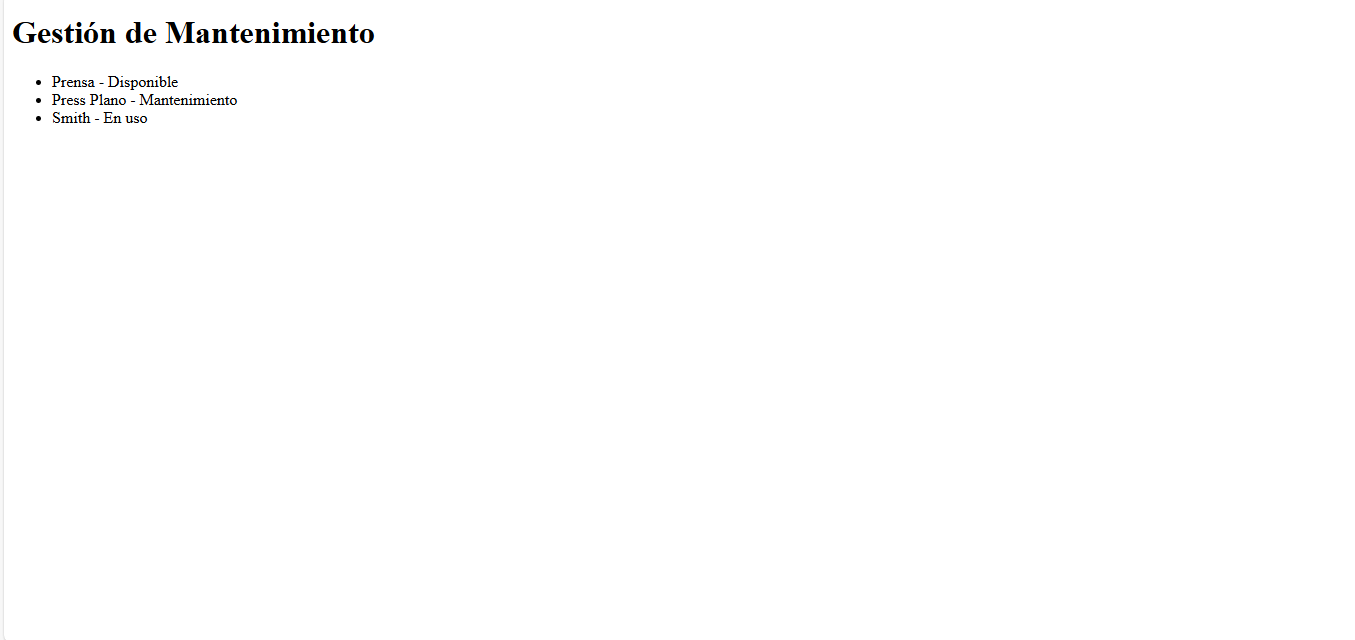
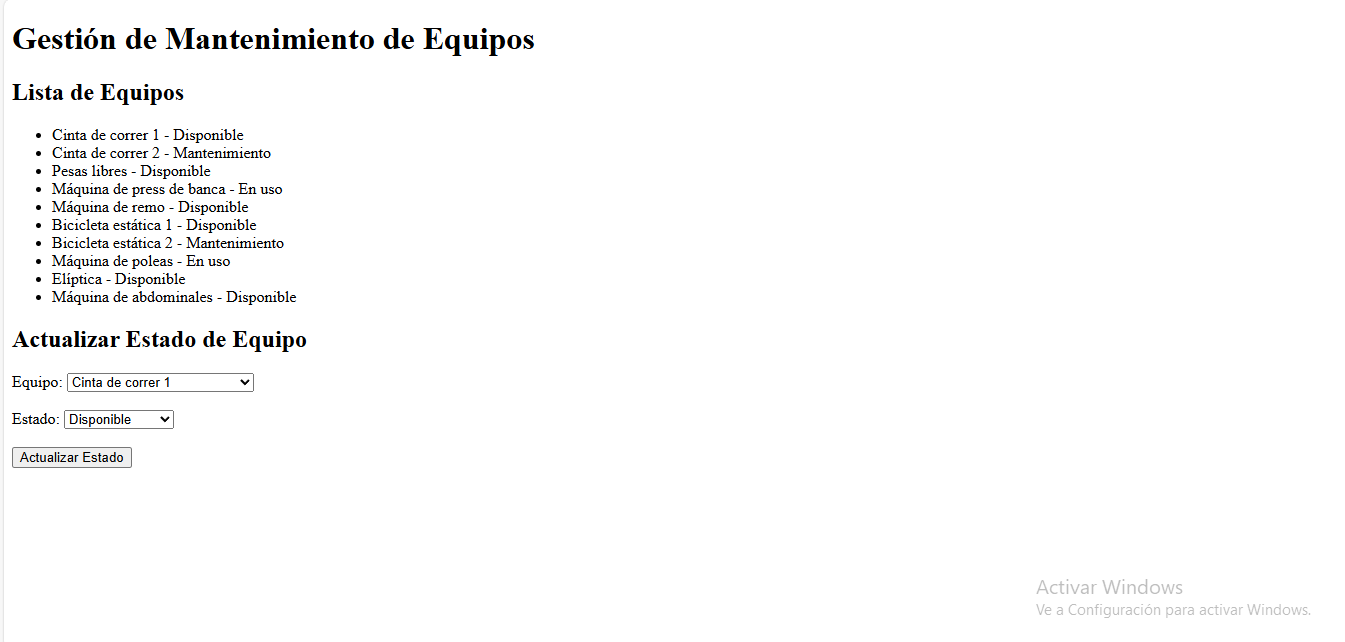
Actualizados interfaces, casos de uso y README

diff --git a/capturas/gestion_mantenimiento.html b/capturas/gestion_mantenimiento.html
@@ -4,11 +4,53 @@
 <title>Gestión de Mantenimiento</title>
 </head>
 <body>
-<h1>Gestión de Mantenimiento</h1>
+<h1>Gestión de Mantenimiento de Equipos</h1>
+
+<h2>Lista de Equipos</h2>
 <ul>
-<li>Prensa - Disponible</li>
-<li>Press Plano - Mantenimiento</li>
-<li>Smith - En uso</li>
+<li>Cinta de correr 1 - Disponible</li>
+<li>Cinta de correr 2 - Mantenimiento</li>
+<li>Pesas libres - Disponible</li>
+<li>Máquina de press de banca - En uso</li>
+<li>Máquina de remo - Disponible</li>
+<li>Bicicleta estática 1 - Disponible</li>
+<li>Bicicleta estática 2 - Mantenimiento</li>
+<li>Máquina de poleas - En uso</li>
+<li>Elíptica - Disponible</li>
+<li>Máquina de abdominales - Disponible</li>
 </ul>
+
+<h2>Actualizar Estado de Equipo</h2>
+<form onsubmit="actualizarEstado(event)">
+<label for="equipo">Equipo:</label>
+<select id="equipo" name="equipo">
+<option value="Cinta de correr 1">Cinta de correr 1</option>
+<option value="Cinta de correr 2">Cinta de correr 2</option>
+<option value="Pesas libres">Pesas libres</option>
+<option value="Máquina de press de banca">Máquina de press de banca</option>
+<option value="Máquina de remo">Máquina de remo</option>
+<option value="Bicicleta estática 1">Bicicleta estática 1</option>
+<option value="Bicicleta estática 2">Bicicleta estática 2</option>
+<option value="Máquina de poleas">Máquina de poleas</option>
+<option value="Elíptica">Elíptica</option>
+<option value="Máquina de abdominales">Máquina de abdominales</option>
+</select><br><br>
+
+<label for="estado">Estado:</label>
+<select id="estado" name="estado">
+<option value="Disponible">Disponible</option>
+<option value="Mantenimiento">Mantenimiento</option>
+<option value="En uso">En uso</option>
+</select><br><br>
+
+<button type="submit">Actualizar Estado</button>
+</form>
+
+<script>
+function actualizarEstado(event) {
+event.preventDefault();
+alert("Estado actualizado");
+}
+</script>
 </body>
 </html>

diff --git a/capturas/registro_clientes.html b/capturas/registro_clientes.html
@@ -5,12 +5,43 @@
 </head>
 <body>
 <h1>Registro de Clientes</h1>
-<form>
+<form onsubmit="mostrarMensaje(event)">
 <label for="nombre">Nombre:</label><br>
-<input type="text" id="nombre" name="nombre"><br><br>
+<input type="text" id="nombre" name="nombre" value=""><br><br>
+
+<label for="apellido">Apellido:</label><br>
+<input type="text" id="apellido" name="apellido" value=""><br><br>
+
+<label for="dni">DNI:</label><br>
+<input type="text" id="dni" name="dni" value=""><br><br>
+
+<label for="telefono">Teléfono:</label><br>
+<input type="tel" id="telefono" name="telefono" value=""><br><br>
+
 <label for="email">Email:</label><br>
-<input type="email" id="email" name="email"><br><br>
+<input type="email" id="email" name="email" value="cliente@ejemplo.com"><br><br>
+
+<label for="direccion">Dirección:</label><br>
+<input type="text" id="direccion" name="direccion" value=""><br><br>
+
+<label for="membresia">Membresía:</label><br>
+<select id="membresia" name="membresia">
+<option value="basica">Básica</option>
+<option value="estandar">Estándar</option>
+<option value="premium">Premium</option>
+</select><br><br>
+
 <button type="submit">Registrar</button>
 </form>
+
+<div id="mensaje" style="display: none;"></div>
+
+<script>
+function mostrarMensaje(event) {
+event.preventDefault(); // Evita que el formulario se envíe realmente
+document.getElementById("mensaje").innerHTML = "Registro exitoso";
+document.getElementById("mensaje").style.display = "block";
+}
+</script>
 </body>
 </html>

diff --git a/capturas/administracion_pagos.html b/capturas/administracion_pagos.html
@@ -5,22 +5,63 @@
 </head>
 <body>
 <h1>Administración de Pagos</h1>
+
+<h2>Filtrar Pagos</h2>
+<form>
+<label for="cliente">Cliente:</label>
+<input type="text" id="cliente" name="cliente">
+
+<label for="estado">Estado:</label>
+<select id="estado" name="estado">
+<option value="">Todos</option>
+<option value="pagado">Pagado</option>
+<option value="pendiente">Pendiente</option>
+</select>
+
+<button type="submit">Filtrar</button>
+</form>
+
+<h2>Lista de Pagos</h2>
 <table>
 <tr>
 <th>Cliente</th>
 <th>Monto</th>
 <th>Vencimiento</th>
+<th>Estado</th>
 </tr>
 <tr>
 <td>Marcos</td>
 <td>$50</td>
 <td>2024-12-31</td>
+<td>Pagado</td>
 </tr>
 <tr>
-<td>Ana</td>
+<td>Frank</td>
 <td>$60</td>
 <td>2025-01-15</td>
+<td>Pendiente</td>
 </tr>
 </table>
+
+<h2>Registrar Nuevo Pago</h2>
+<form onsubmit="registrarPago(event)">
+<label for="cliente_nuevo">Cliente:</label>
+<input type="text" id="cliente_nuevo" name="cliente_nuevo" required><br><br>
+
+<label for="monto_nuevo">Monto:</label>
+<input type="number" id="monto_nuevo" name="monto_nuevo" required><br><br>
+
+<label for="vencimiento_nuevo">Vencimiento:</label>
+<input type="date" id="vencimiento_nuevo" name="vencimiento_nuevo" required><br><br>
+
+<button type="submit">Registrar Pago</button>
+</form>
+
+<script>
+function registrarPago(event) {
+event.preventDefault();
+alert("Pago registrado");
+}
+</script>
 </body>
 </html>

diff --git a/READMe.md b/READMe.md
@@ -15,7 +15,8 @@ Este proyecto es una simulación de un sistema de gestión de gimnasio. Se han
 
 ### 1. Registro y Gestión de Clientes
 
-* Permite registrar nuevos clientes con información básica como nombre y correo electrónico.
+* Permite registrar nuevos clientes con información básica como nombre, apellido, DNI, teléfono, correo electrónico, dirección y tipo de membresía (Básica, Estándar, Premium).
+* Simula la gestión de clientes existentes.
 
 ### 2. Control de Asistencia mediante Código QR
 
@@ -24,24 +25,28 @@ Este proyecto es una simulación de un sistema de gestión de gimnasio. Se han
 
 ### 3. Administración de Pagos y Vencimientos
 
-* Permite visualizar una lista de pagos y vencimientos de los clientes.
+* Permite filtrar los pagos por cliente y estado (Pagado, Pendiente).
+* Permite visualizar una lista de pagos con información del cliente, monto, vencimiento y estado.
+* Permite registrar un nuevo pago ingresando el nombre del cliente, monto y fecha de vencimiento.
 
 ### 4. Gestión de Mantenimiento de Equipos
 
-* Permite visualizar el estado de los equipos del gimnasio.
+* Permite visualizar el estado de los equipos del gimnasio (Disponible, Mantenimiento, En uso).
+* Permite actualizar el estado de un equipo seleccionado.
 
 ## Instrucciones de Uso
 
 1.  Abre los archivos HTML en tu navegador web para visualizar las interfaces.
 2.  Utiliza los formularios y botones para interactuar con las interfaces.
 3.  Para el control de asistencia QR, ingresa cualquier texto en el campo "Código QR" para generar un código QR simulado.
-4.  Las capturas de pantalla de cada caso de uso se encuentran en la carpeta capturas/img/.
+4.  Las capturas de pantalla de cada caso de uso se encuentran en la carpeta capturas/.
 
 ## Capturas de Pantalla
 
 ### Registro de Clientes
 
-![Registro](capturas/img/registro_1.png)
+![Formulario de registro (campos vacíos)](capturas/img/registro_1.png)
+![Formulario de registro (campos llenos)](capturas/img/registro_2.png)
 
 ### Control de Asistencia QR
 
@@ -50,11 +55,14 @@ Este proyecto es una simulación de un sistema de gestión de gimnasio. Se han
 
 ### Administración de Pagos
 
-![Pagos](capturas/img/pagos_1.png)
+![Formulario de registro de pagos](capturas/img/pago_1.png)
+![Mensaje de pago registrado](capturas/img/pago_2.png)
+![Formulario de registro de pagos lleno](capturas/img/pago_3.png)
 
 ### Mantenimiento de Equipos
 
-![Estado de equipos](capturas/img/mantenimiento_1.png)
+![Lista de equipos](capturas/img/mantenimiento_1.png)
+![Mensaje de estado actualizado](capturas/img/mantenimiento_2.png)
 
 ## Tecnologías Utilizadas
 

diff --git a/casos_de_uso/CU_AdministracionPagos.md b/casos_de_uso/CU_AdministracionPagos.md
@@ -1,4 +1,4 @@
-# Caso de uso: Administración de pagos y vencimientos
+# Caso de uso: Administración de Pagos y Vencimientos
 
 *Actor:* Recepcionista
 
@@ -6,10 +6,33 @@
 
 *Flujo principal:*
 
-1.  El recepcionista accede a la lista de pagos.
-2.  El recepcionista verifica el estado de pago del cliente.
-3.  El recepcionista registra un nuevo pago.
+1.  El recepcionista accede a la página de administración de pagos.
+2.  El recepcionista puede filtrar los pagos por cliente y estado (Pagado, Pendiente).
+3.  El recepcionista visualiza la lista de pagos con información del cliente, monto, vencimiento y estado.
+4.  El recepcionista puede registrar un nuevo pago ingresando el nombre del cliente, monto y fecha de vencimiento.
+5.  El sistema muestra un mensaje de "Pago registrado" al registrar un nuevo pago.
 
-*Captura de pantalla:*
+*Capturas de pantalla:*
 
-![Pagos](capturas/img/pagos_1.png)
+### Formulario de registro de pagos
+
+![Formulario de registro de pagos](capturas/img/pago_1.png)
+
+### Mensaje de pago registrado
+
+![Mensaje de pago registrado](capturas/img/pago_2.png)
+
+### Formulario de registro de pagos lleno
+
+![Formulario de registro de pagos lleno](capturas/img/pago_3.png)
+
+*Flujos alternativos:*
+
+* Si no se encuentran pagos con los filtros aplicados, el sistema muestra un mensaje indicando que no hay resultados.
+* Si algún campo obligatorio del formulario de registro está vacío, el sistema muestra un mensaje de error.
+
+*Poscondiciones:*
+
+* Se visualiza la lista de pagos filtrada según los criterios seleccionados.
+* Se registra un nuevo pago en el sistema.
+* Se muestra un mensaje de confirmación de registro de pago exitoso.

diff --git a/casos_de_uso/CU_GestionMantenimiento.md b/casos_de_uso/CU_GestionMantenimiento.md
@@ -1,15 +1,33 @@
-# Caso de uso: Gestión de mantenimiento de equipos
+# Caso de uso: Gestión de Mantenimiento de Equipos
 
 *Actor:* Encargado de mantenimiento
 
-*Precondiciones:* Un equipo necesita mantenimiento.
+*Precondiciones:* Un equipo necesita mantenimiento o se ha reparado.
 
 *Flujo principal:*
 
-1.  El encargado accede a la lista de equipos.
-2.  El encargado selecciona un equipo para mantenimiento.
-3.  El encargado actualiza el estado del equipo.
+1.  El encargado accede a la página de gestión de mantenimiento.
+2.  El encargado visualiza la lista de equipos con sus estados actuales (Disponible, Mantenimiento, En uso).
+3.  El encargado selecciona un equipo de la lista para actualizar su estado.
+4.  El encargado elige el nuevo estado del equipo (Disponible, Mantenimiento, En uso).
+5.  El encargado hace clic en "Actualizar Estado".
+6.  El sistema muestra un mensaje de "Estado actualizado".
 
-*Captura de pantalla:*
+*Capturas de pantalla:*
 
-![Estado de equipos](capturas/img/mantenimiento_1.png)
+### Lista de equipos
+
+![Lista de equipos](capturas/img/mantenimiento_1.png)
+
+### Mensaje de estado actualizado
+
+![Mensaje de estado actualizado](capturas/img/mantenimiento_2.png)
+
+*Flujos alternativos:*
+
+* Si no se selecciona un equipo o estado, el sistema muestra un mensaje de error.
+
+*Poscondiciones:*
+
+* Se actualiza el estado del equipo seleccionado en el sistema.
+* Se muestra un mensaje de confirmación de actualización de estado exitosa.

diff --git a/casos_de_uso/CU_RegistroClientes.md b/casos_de_uso/CU_RegistroClientes.md
@@ -1,4 +1,4 @@
-# Caso de uso: Registro y gestión de clientes
+# Caso de uso: Registro y Gestión de Clientes
 
 *Actor:* Recepcionista
 
@@ -7,9 +7,38 @@
 *Flujo principal:*
 
 1.  El recepcionista accede a la página de registro de clientes.
-2.  El recepcionista introduce el nombre y email del cliente.
+2.  El recepcionista introduce la siguiente información del cliente:
+    * Nombre
+    * Apellido
+    * DNI
+    * Teléfono
+    * Correo electrónico
+    * Dirección
+    * Tipo de membresía (Básica, Estándar, Premium)
 3.  El recepcionista hace clic en "Registrar".
+4.  El sistema muestra un mensaje de "Registro exitoso".
 
-*Captura de pantalla:*
+*Capturas de pantalla:*
 
-![Registro](capturas/img/registro_1.png)
+### Formulario de registro (campos vacíos)
+
+![Formulario de registro (campos vacíos)](capturas/img/registro_1.png)
+
+### Formulario de registro (campos llenos)
+
+![Formulario de registro (campos llenos)](capturas/img/registro_2.png)
+
+### Mensaje de registro exitoso
+
+![Mensaje de registro exitoso](capturas/img/registro_2.png)
+
+*Flujos alternativos:*
+
+* Si algún campo obligatorio está vacío, el sistema muestra un mensaje de error.
+* Si el correo electrónico ya está registrado, el sistema muestra un mensaje de error.
+
+*Poscondiciones:*
+
+* El cliente ha sido registrado en el sistema.
+* Se ha asignado el tipo de membresía seleccionado.
+* Se muestra un mensaje de confirmación de registro exitoso.
